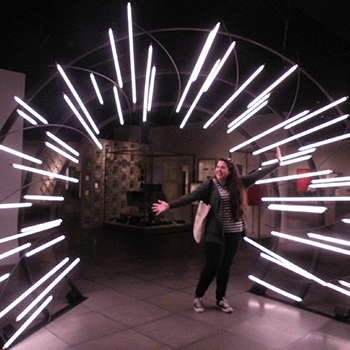
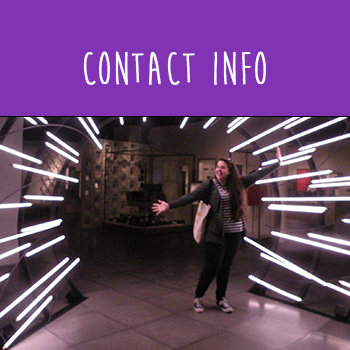
update contact info

diff --git a/js/instagramLite.js b/js/instagramLite.js
@@ -1,0 +1,278 @@
+/*!
+Name: Instagram Lite
+Dependencies: jQuery
+Author: Michael Lynch
+Author URL: http://michaelynch.com
+Date Created: January 14, 2014
+Licensed under the MIT license
+*/
+
+;(function($) {
+
+    $.fn.instagramLite = function(options) {
+    
+    	// return if no element was bound
+		// so chained events can continue
+		if(!this.length) { 
+			return this; 
+		}
+        
+        // define plugin
+        plugin = this;
+        
+        // define default parameters
+        plugin.defaults = {
+            username: null,
+            clientID: null,
+            limit: null,
+            list: true,
+            videos: false,
+            urls: false,
+            captions: false,
+            date: false,
+            likes: false,
+            max_id: null,
+            load_more: null,
+            error: function() {},
+            success: function() {}
+        }
+        
+        // vars
+        var s = $.extend({}, plugin.defaults, options),
+        	el = $(this);
+
+        var getMaxId = function(items) {
+	    
+	    	// return id of last item
+	    	return items[items.length-1].id;
+	    };
+	    
+	    var formatCaption = function(caption) {
+	    
+	    	var words = caption.split(' '),
+	    		newCaption = '';
+	    	
+	    	for(var i = 0; i < words.length; i++) {
+	    		
+	    		var word;
+		    	
+		    	if(words[i][0] == '@') {
+			    	var a = '<a href="http://twitter.com/'+words[i].replace('@', '').toLowerCase()+'" target="_blank">'+words[i]+'</a>';
+			    	word = a;
+			    } else if(words[i][0] == '#') {
+			    	var a = '<a href="http://twitter.com/hashtag/'+words[i].replace('#', '').toLowerCase()+'" target="_blank">'+words[i]+'</a>';
+			    	word = a;
+		    	} else {
+			    	word = words[i]
+		    	}
+	
+		    	newCaption += word + ' ';
+	    	}
+	    
+	    	return newCaption;
+		    
+	    };
+	    
+	    var loadContent = function() {
+	
+	    	// if client ID and username were provided
+	        if(s.clientID && s.username) {
+	        
+		        // for each element
+		        el.each(function() {
+		        
+		        	var el = $(this);
+		        
+		        	// search the user
+		        	// to get user ID
+		        	$.ajax({
+			        	type: 'GET',
+			        	url: 'https://api.instagram.com/v1/users/search?q='+s.username+'&client_id='+s.clientID+'&callback=?',
+			        	dataType: 'jsonp',
+			        	success: function(data) {
+		
+			        		if(data.data.length) {
+				        		
+			        			// define user namespace
+				        		var thisUser = data.data[0];
+				        		
+			        			// construct API endpoint
+								var url = 'https://api.instagram.com/v1/users/'+thisUser.id+'/media/recent/?client_id='+s.clientID+'&count='+s.limit+'&callback=?';
+								
+								// concat max id if max id is set
+								url += (s.max_id) ? '&max_id='+s.max_id : '';
+			
+			        			$.ajax({
+						        	type: 'GET',
+						        	url: url,
+						        	dataType: 'jsonp',
+						        	success: function(data) {
+						        		
+						        		// if success status
+						        		if(data.meta.code === 200 && data.data.length) {
+											
+							        		// for each piece of media returned
+							        		for(var i = 0; i < data.data.length; i++) {
+							        		
+							        			// define media namespace
+							        			var thisMedia = data.data[i],
+							        				item;
+							        			
+							        			// if media type is image or videos is set to false
+							        			if(thisMedia.type === 'image' || !s.videos) {
+							        			
+								        			// construct image
+								        			item = '<img class="il-photo__img" src="'+thisMedia.images.standard_resolution.url+'" alt="Instagram Image" data-filter="'+thisMedia.filter+'" />';
+
+								        			// if url setting is true
+								        			if(s.urls) {
+								        			
+								        				item = '<a href="'+thisMedia.link+'" target="_blank">'+item+'</a>';
+									        			
+								        			}
+								        			
+								        			if(s.captions || s.date || s.likes) {
+									        			item += '<div class="il-photo__meta">';
+								        			}
+								        			
+								        			// if caption setting is true
+								        			if(s.captions && thisMedia.caption) {
+								        			
+								        				item += '<div class="il-photo__caption" data-caption-id="'+thisMedia.caption.id+'">'+formatCaption(thisMedia.caption.text)+'</div>';
+									        			
+								        			}
+								        			
+								        			// if date setting is true
+								        			if(s.date) {
+								        			
+								        				var date = new Date(thisMedia.created_time * 1000),
+								        					day = date.getDate(),
+															month = date.getMonth() + 1,
+															year = date.getFullYear(),
+															hours = date.getHours(),
+															minutes = date.getMinutes(),
+															seconds = date.getSeconds();
+															
+														date = month +'/'+ day +'/'+ year;
+								        			
+								        				item += '<div class="il-photo__date">'+date+'</div>';
+									        			
+								        			}
+								        			
+								        			// if likes setting is true
+								        			if(s.likes) {
+								        			
+								        				item += '<div class="il-photo__likes">'+thisMedia.likes.count+'</div>';
+									        			
+								        			}
+								        			
+								        			if(s.captions || s.date || s.likes) {
+									        			item += '</div>';
+								        			}
+
+							        			}
+							        			
+							        			if(thisMedia.type === 'video' && s.videos) {
+							        				
+							        				if(thisMedia.videos) {
+							        				
+							        					var src;
+							        				
+							        					if(thisMedia.videos.standard_resolution) {
+							        					
+							        						src = thisMedia.videos.standard_resolution.url;
+								        					
+							        					} else if(thisMedia.videos.low_resolution) {
+							        					
+							        						src = thisMedia.videos.low_resolution.url;
+								        					
+							        					} else if(thisMedia.videos.low_bandwidth) {
+							        					
+							        						src = thisMedia.videos.low_bandwidth.url;
+								        					
+							        					}
+							        					
+							        					item = '<video poster="'+thisMedia.images.standard_resolution.url+'" controls>';
+							        					
+							        					item += '<source src="'+src+'" type="video/mp4;"></source>';
+							        					
+							        					item += '</video>';
+								        				
+							        				}
+							        			}
+							        			
+							        			// if list setting is true
+							        			if(s.list && item) {
+							        			
+							        				// redefine item with wrapping list item
+							        				item = '<li class="il-item" data-instagram-id="'+thisMedia.id+'">'+item+'</li>';
+							        			}
+
+							        			// append image / video
+							        			if(item !== '') {
+							        				el.append(item);
+							        			}
+							        		}
+							        		
+							        		// set new max id
+							        		s.max_id = getMaxId(data.data);
+							        		
+							        		// execute success callback
+							        		s.success.call(this);
+						        		
+						        		} else {
+							        		
+							        		// execute error callback
+							        		s.error.call(this, data.meta.code, data.meta.error_message);
+							        		
+						        		}
+						        	
+						        	},
+						        	error: function() {
+						        	
+						        		// recent media ajax request failed
+						        		// execute error callback
+						        		s.error.call(this);
+						        	}
+						        });
+	
+			        		} else {
+			        		
+			        			// error finding username
+			        			// execute error callback
+								s.error.call(this);
+				        		
+			        		}
+			        	},
+			        	error: function() {
+			        	
+			        		// search username ajax request failed
+			        		// execute error callback
+							s.error.call(this);
+				        	
+			        	}
+		        	});
+		        
+		        });
+	        
+	        } else {
+	        
+	        	// username or client ID were not provided
+			    // execute error callback
+				s.error.call(this);
+	        };
+	    }
+	    
+	    // bind load more click event
+        if(s.load_more){
+        	$(s.load_more).on('click', function(e) {
+	        	e.preventDefault();
+	        	loadContent();
+	        });
+        }
+	    
+	    // init
+        loadContent(); 
+    }
+    
+})(jQuery);

diff --git a/index.html b/index.html
@@ -37,7 +37,8 @@
                 <div id="daniellePics">
                     <img src="img/danielle.jpg" alt="Danielle" id="danielle">
                     <div id="danielle2" class="hide">
-                        <h1>Contact Info</h1>
+                        <h1><span class="hide">Contact Info</span></h1>
+                        <br>
                         <p>106 Pine Valley Road Delran, NJ 08075</p>
                         <p>609-634-5460</p>
                         <p><a href="#">nutt.danielle@gmail.com</a></p>
@@ -81,7 +82,9 @@
             </section>
         </div><!--close container-->        
         <footer>
-            <div id="instafeed"></div> 
+            <div id="instagram">
+                <ul class="instagram-lite"></ul>
+            </div>
             <div id="social">
                 <ul>
                     <li><a href="https://www.linkedin.com/pub/danielle-nutt/9b/399/a84" target="_blank"><i class="fa fa-linkedin-square"></i></a></li>
@@ -99,17 +102,8 @@
         <script src="js/plugins.js"></script>
         <script src="js/main.js"></script>
         <script src="js/jquery.slicknav.js"></script>
-        <script type="text/javascript" src="js/instafeed.js"></script>
-                    <!--INSTAGRAM FEED
-                    <script type="text/javascript">
-                            var feed = new Instafeed({
-                                accessToken: 
-                                get: 'user',
-                                userId: 'ttunelleinad',
-                                clientId: 'e2f4c537768347a880c913f4655c2d6a'
-                            });
-                            feed.run();
-                        </script>-->
+        <script src="/js/instagramLite.js"></script>
+
         <!-- Google Analytics: change UA-XXXXX-X to be your site's ID. -->
         <script>
             (function(b,o,i,l,e,r){b.GoogleAnalyticsObject=l;b[l]||(b[l]=

diff --git a/js/main.js b/js/main.js
@@ -64,6 +64,7 @@ $(function() {
         if(!$(".validator-error").length) {
             var user = [$("#firstName").val(), $("#lastName").val(), $("#email").val(), $("#message").val()];
             console.log(JSON.stringify(user));
+
             $.ajax(
                 {
                     type: "POST",
@@ -79,5 +80,16 @@ $(function() {
                 }
             );
         }
+    });
+});
+
+//Instagram Feed
+$(function() {
+    $(".instagram-lite").instagramLite({
+        list: "false",
+        urls: "true",
+        limit: "12",
+        clientID: "e2f4c537768347a880c913f4655c2d6a",
+        username: "ttunelleinad"
     });
 });

diff --git a/css/main.css b/css/main.css
@@ -136,14 +136,14 @@ nav a {
 
 #danielle2 {
     position: absolute;
-    top: 75px;
+    top: 100px;
     left: 75px;
 }
 
 #danielle2, #danielle2 a {
     text-align: center;
+    font-size: 1.1em;
     font-weight: bold;
-    font-size: bigger;
     color: #8133B4;
 }
 
@@ -206,11 +206,10 @@ textarea {
 footer {
     text-align: center;
     margin: 10px;
-    background: #e9e9e9;
+    background: url(../img/swirl.png);
     margin: 0;
     padding: 0;
     border-top: 1px solid #000;
-    border-bottom: 1px solid #000;
 }
 
 footer p {
